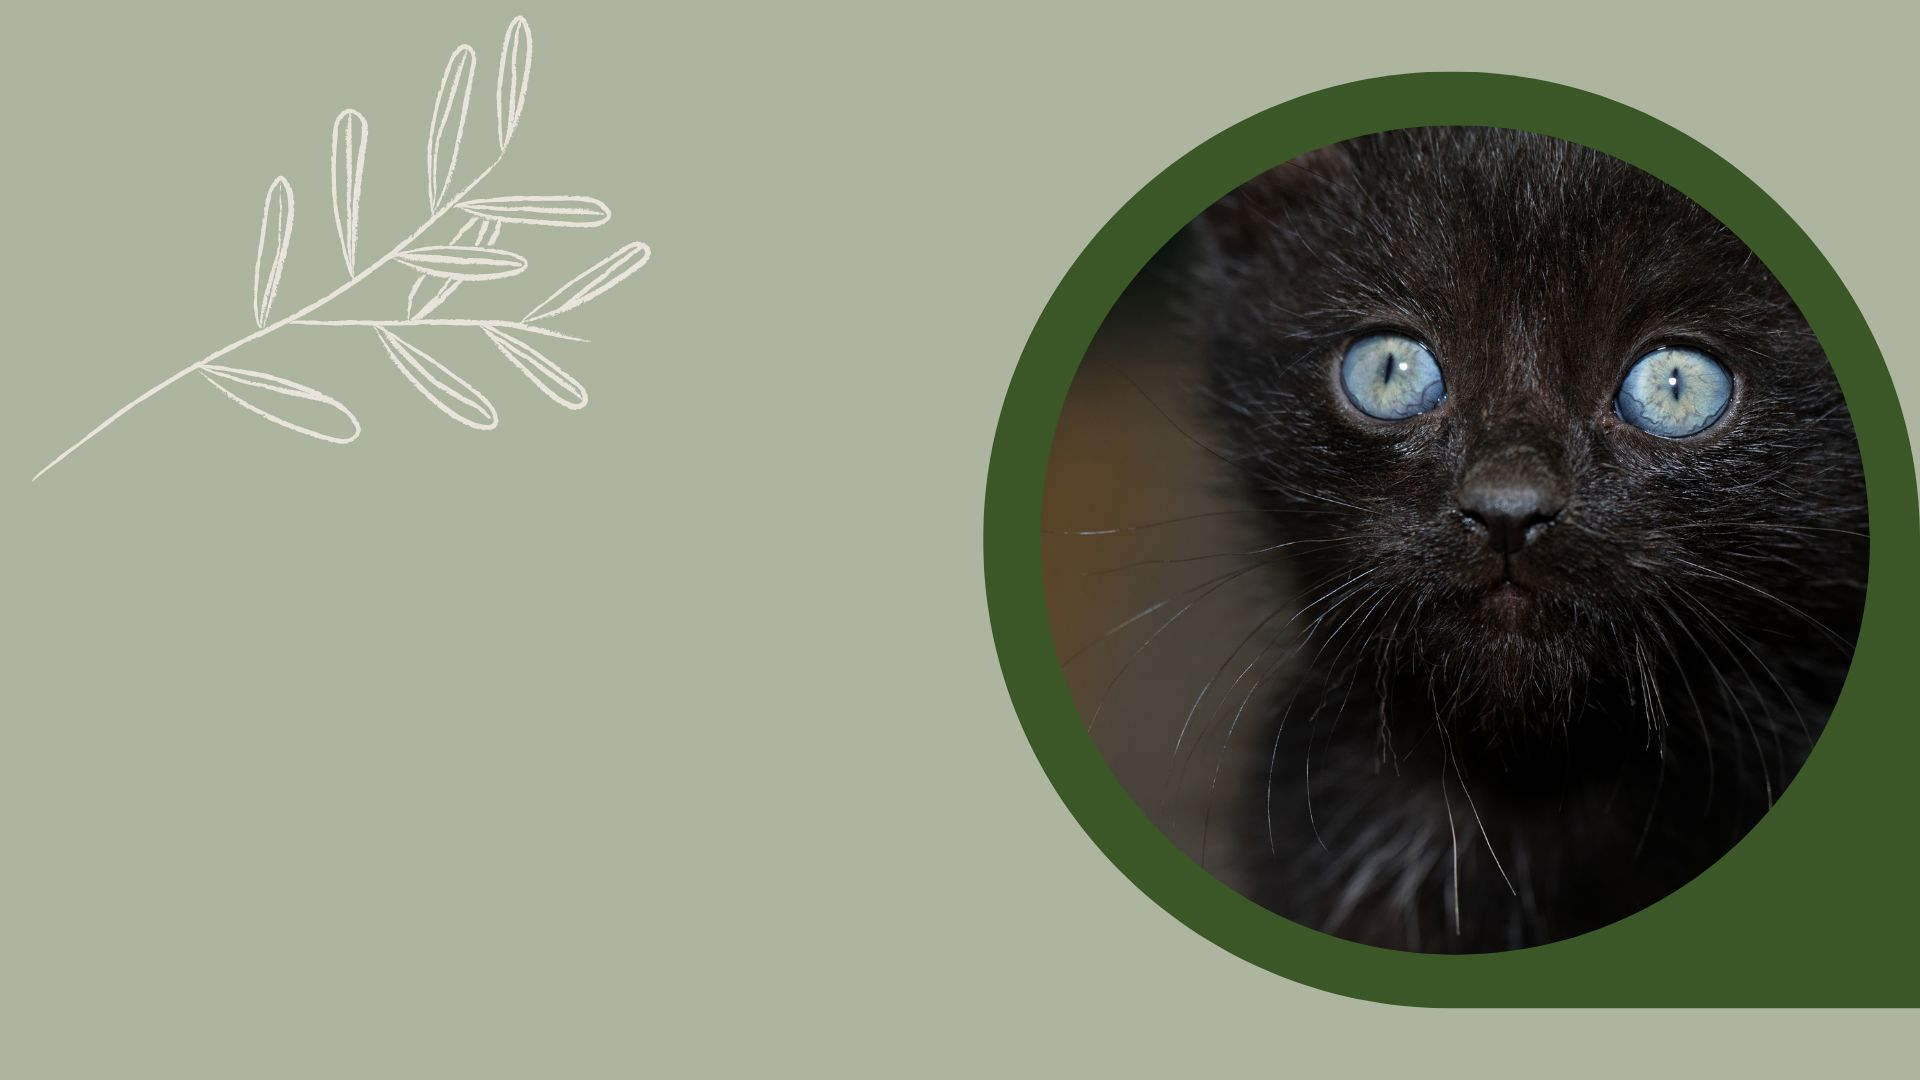
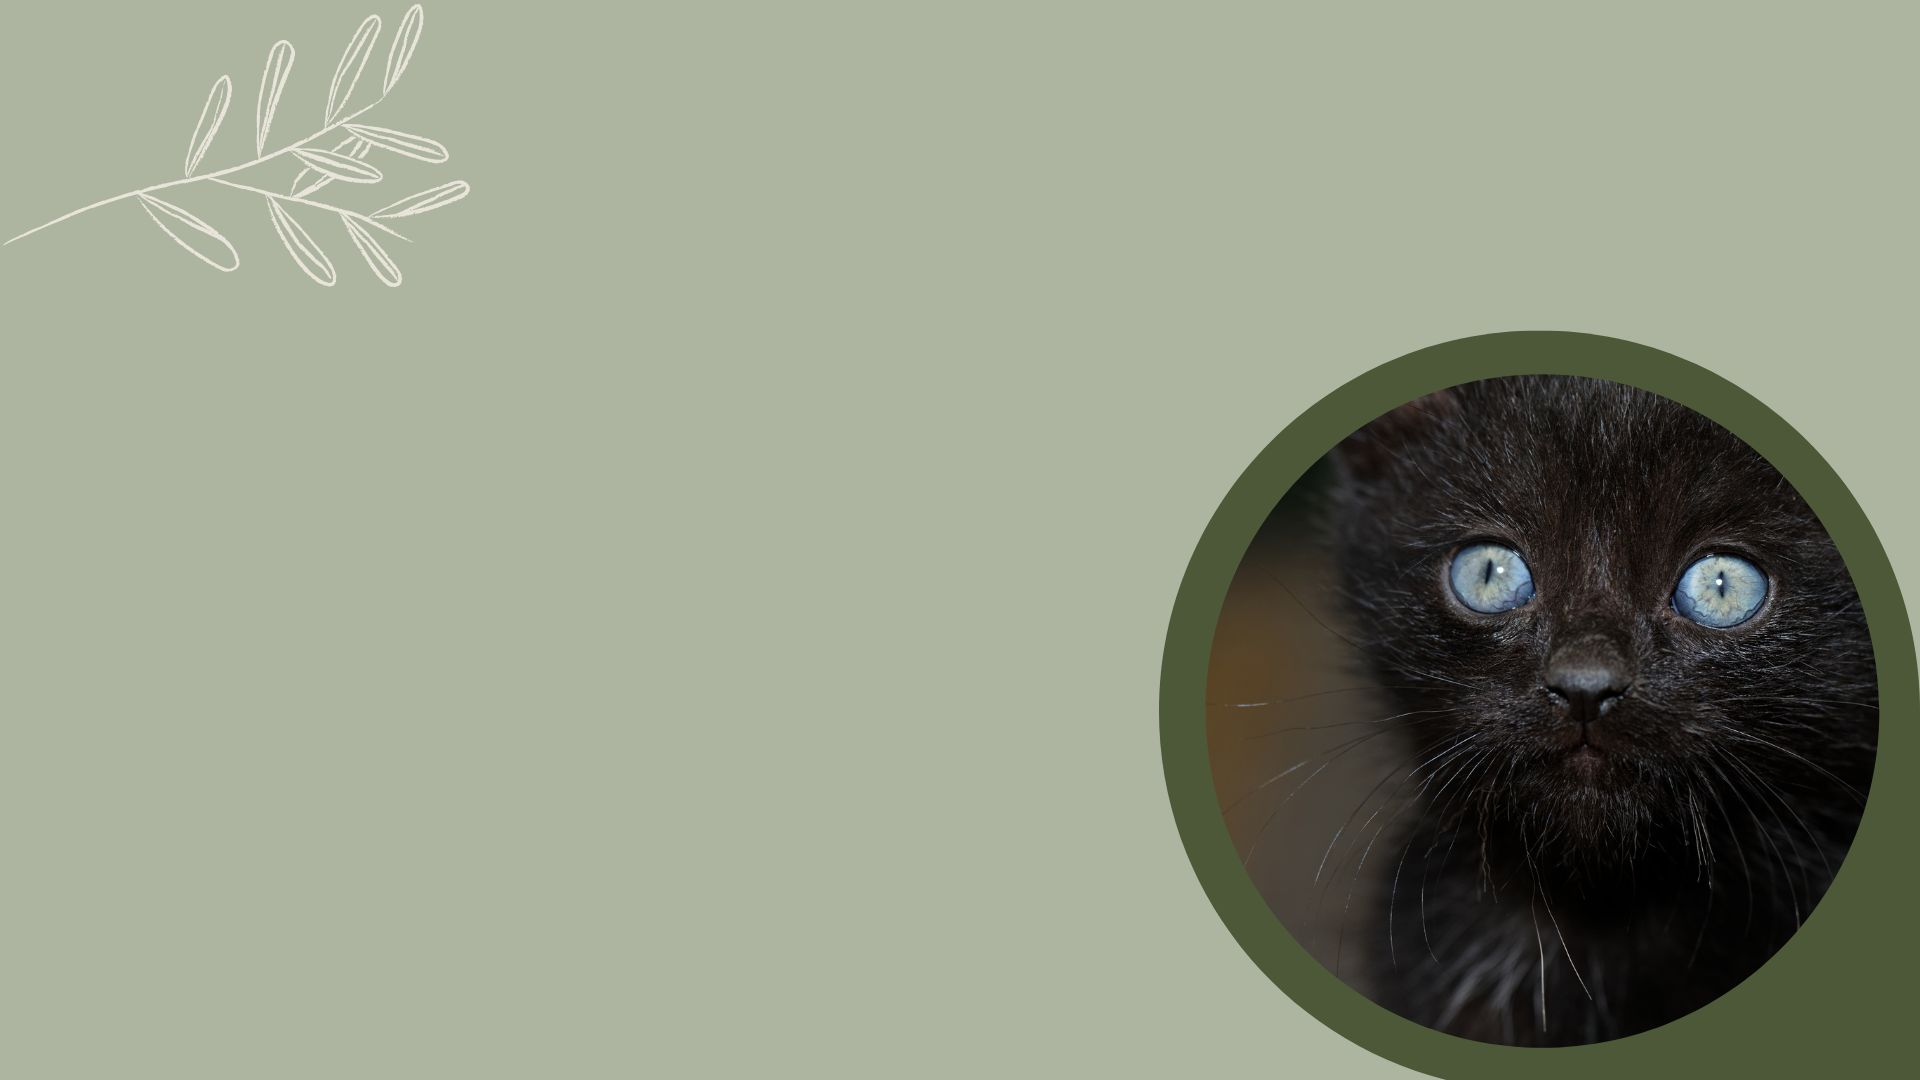
26/08

Changed region(s): [[0.5, 0.0611, 1.0, 1.0], [0.0312, 0.0, 0.3438, 0.3972], [0.0625, 0.3056, 0.1875, 0.4278]]

diff --git a/projeto/index/css/index.css b/projeto/index/css/index.css
@@ -56,7 +56,7 @@ body{
   }
 
 .inicio{
-  height: 800px;
+  height: 700px;
   background-position: center;
   background-repeat: no-repeat;
   background-size:100% 100% ;
@@ -191,9 +191,10 @@ margin-top:auto;
 
 
 .comeco{
-  background-position:right center;
+  height: 700px;
+  background-position:center;
   background-repeat: no-repeat;
-  background-size:90% 100% ;
+  background-size:100% 100% ;
   background-image: url(../imgs/luna.jpg);
 
 }

diff --git a/projeto/index/index.php b/projeto/index/index.php
@@ -152,7 +152,7 @@
                 
                 
      
-    <section class="comeco">
+    <section class="comeco" >
         <div class="max-width">
             <h1 class="title">Como começou</h1>
             <div class="comeco-content">
@@ -164,6 +164,7 @@
                  assim como nenhum animal merece. Infelizmente, não conseguimos salvá-la, mas seus últimos dias foram preenchidos de amor e carinho.<br>
                  Porém sua vida não foi em vão, pois sua história serviu como estopim para a criação da Save a soul.
                 </div></b>
+
                 </div>
             </div>
         </div>
